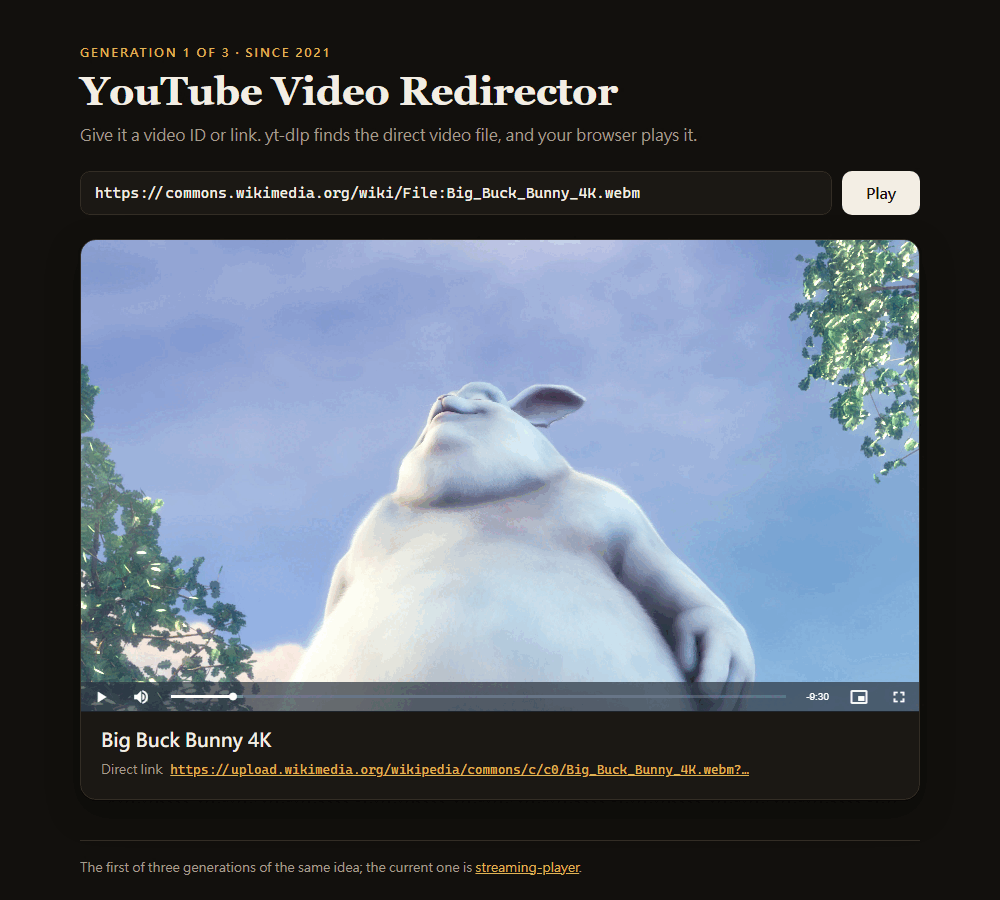
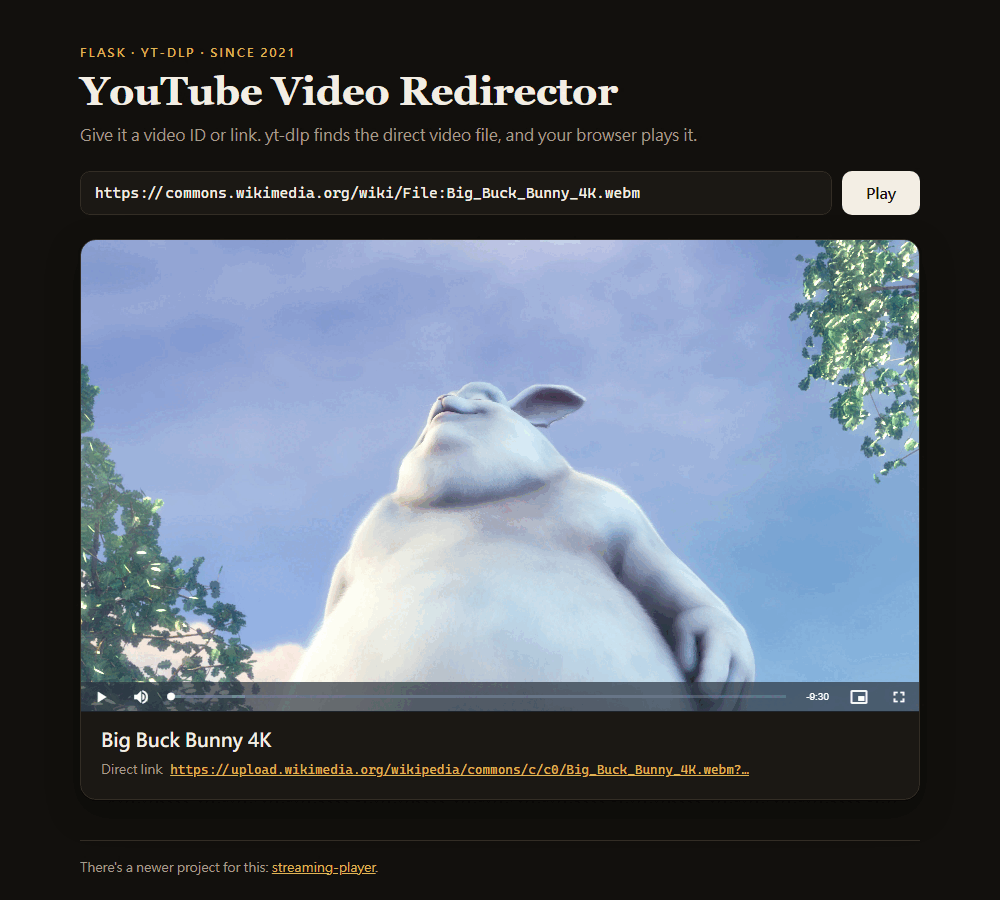
docs: point to the newer project instead of drawing a family tree
The README called this repo "the first of three generations" and had a
whole family-tree section (diagram, comparison table, "you are looking
at Gen 1"). That's gone, along with the "family" badge. A one-line
quote under the badges now says there's a newer project for this and
links streaming-player.

What the app does, how it works, how to run it, the 2026 status notes
and the screenshots all stay. The screenshots are retaken so the page's
new top line and footer match, and the cover's alt text describes the
new cover.

diff --git a/README.md b/README.md
@@ -1,49 +1,23 @@
 <p align="center">
   <picture>
     <source media="(prefers-color-scheme: dark)" srcset="https://raw.githubusercontent.com/NatLee/youtube-video-redirector/main/docs/images/hero-dark.png">
-    <img src="https://raw.githubusercontent.com/NatLee/youtube-video-redirector/main/docs/images/hero-light.png" width="960" alt="YouTube Video Redirector, Gen 1 of the streaming-player family. You open /?v=JJo-zUi9E5U, Flask and yt-dlp find the direct file link, and the page plays it in a video tag; the start command is python main.py. A timeline at the bottom runs from youtube-video-redirector (2021, this repo) to youtube-redirect-player (2023) to streaming-player (current).">
+    <img src="https://raw.githubusercontent.com/NatLee/youtube-video-redirector/main/docs/images/hero-light.png" width="960" alt="YouTube Video Redirector, built with Flask, yt-dlp and Video.js. You open /?v=JJo-zUi9E5U, Flask and yt-dlp find the direct file link, and the page plays it in a video tag. A strip at the bottom shows the two Docker commands that start it: docker build -t youtube-video-redirector . and docker run --rm -p 5000:5000 youtube-video-redirector.">
   </picture>
 </p>
 
 <p align="center">
   <a href="https://github.com/NatLee/youtube-video-redirector/actions/workflows/ci.yml"><img src="https://github.com/NatLee/youtube-video-redirector/actions/workflows/ci.yml/badge.svg" alt="CI"></a>
-  <a href="https://github.com/NatLee/streaming-player"><img src="https://img.shields.io/badge/family-streaming--player-0f6b62" alt="Family: streaming-player"></a>
   <img src="https://img.shields.io/badge/python-3.12-3776ab" alt="Python 3.12">
   <a href="LICENSE"><img src="https://img.shields.io/github/license/NatLee/youtube-video-redirector" alt="License: MIT"></a>
 </p>
+
+> There's a newer project for this: [streaming-player](https://github.com/NatLee/streaming-player).
 
 YouTube Video Redirector is a tiny Flask app with one trick. Put a YouTube video ID in the address
 bar, `/?v=JJo-zUi9E5U`, and it asks [yt-dlp](https://github.com/yt-dlp/yt-dlp) for the video's
 direct file link: the actual `googlevideo.com` address of the MP4, not the watch page. The page shows
 you that link and plays it in a plain [Video.js](https://videojs.com/) player. No watch page, no
 embed, just the file.
-
-It's the first of three generations of the same idea; the current one is
-[streaming-player](https://github.com/NatLee/streaming-player).
-
-## The family tree
-
-Three repos, one idea that kept growing. Each generation added something and let something go.
-
-```mermaid
-flowchart TB
-    G1["Gen 1 · 2021<br/><b>youtube-video-redirector</b><br/>Flask + yt-dlp"]
-    G2["Gen 2 · 2023<br/><b>youtube-redirect-player</b><br/>Flask + Socket.IO + SQLite"]
-    G3["Gen 3 · current<br/><b>streaming-player</b><br/>Django + Channels + Redis"]
-    G1 -- "+ three playlists<br/>+ every screen in sync<br/>− the ?v= page" --> G2
-    G2 -- "+ chat commands<br/>+ login, admin panel<br/>− pause all screens" --> G3
-    style G1 fill:#f2e6cb,stroke:#8a5f12,stroke-width:2px,color:#1f1c17
-```
-
-| | Gen 1 | Gen 2 | Gen 3 |
-|---|---|---|---|
-| In one line | One video per URL | One shared playlist on every open screen | A stream player your chat controls |
-| Added | `/?v=<id>` finds the direct link and plays it | Request, default and history playlists; play, pause and mute on every screen at once | Nightbot chat commands, login, admin panel, a queue with favorite and block marks, Swagger |
-| Let go | Nothing yet, it was the first | The one-video `?v=` page and the visible direct link | Pause and mute for every screen at once |
-
-You are looking at Gen 1. Gen 2 is
-[youtube-redirect-player](https://github.com/NatLee/youtube-redirect-player); Gen 3 is
-[streaming-player](https://github.com/NatLee/streaming-player).
 
 ## What it solved
 
